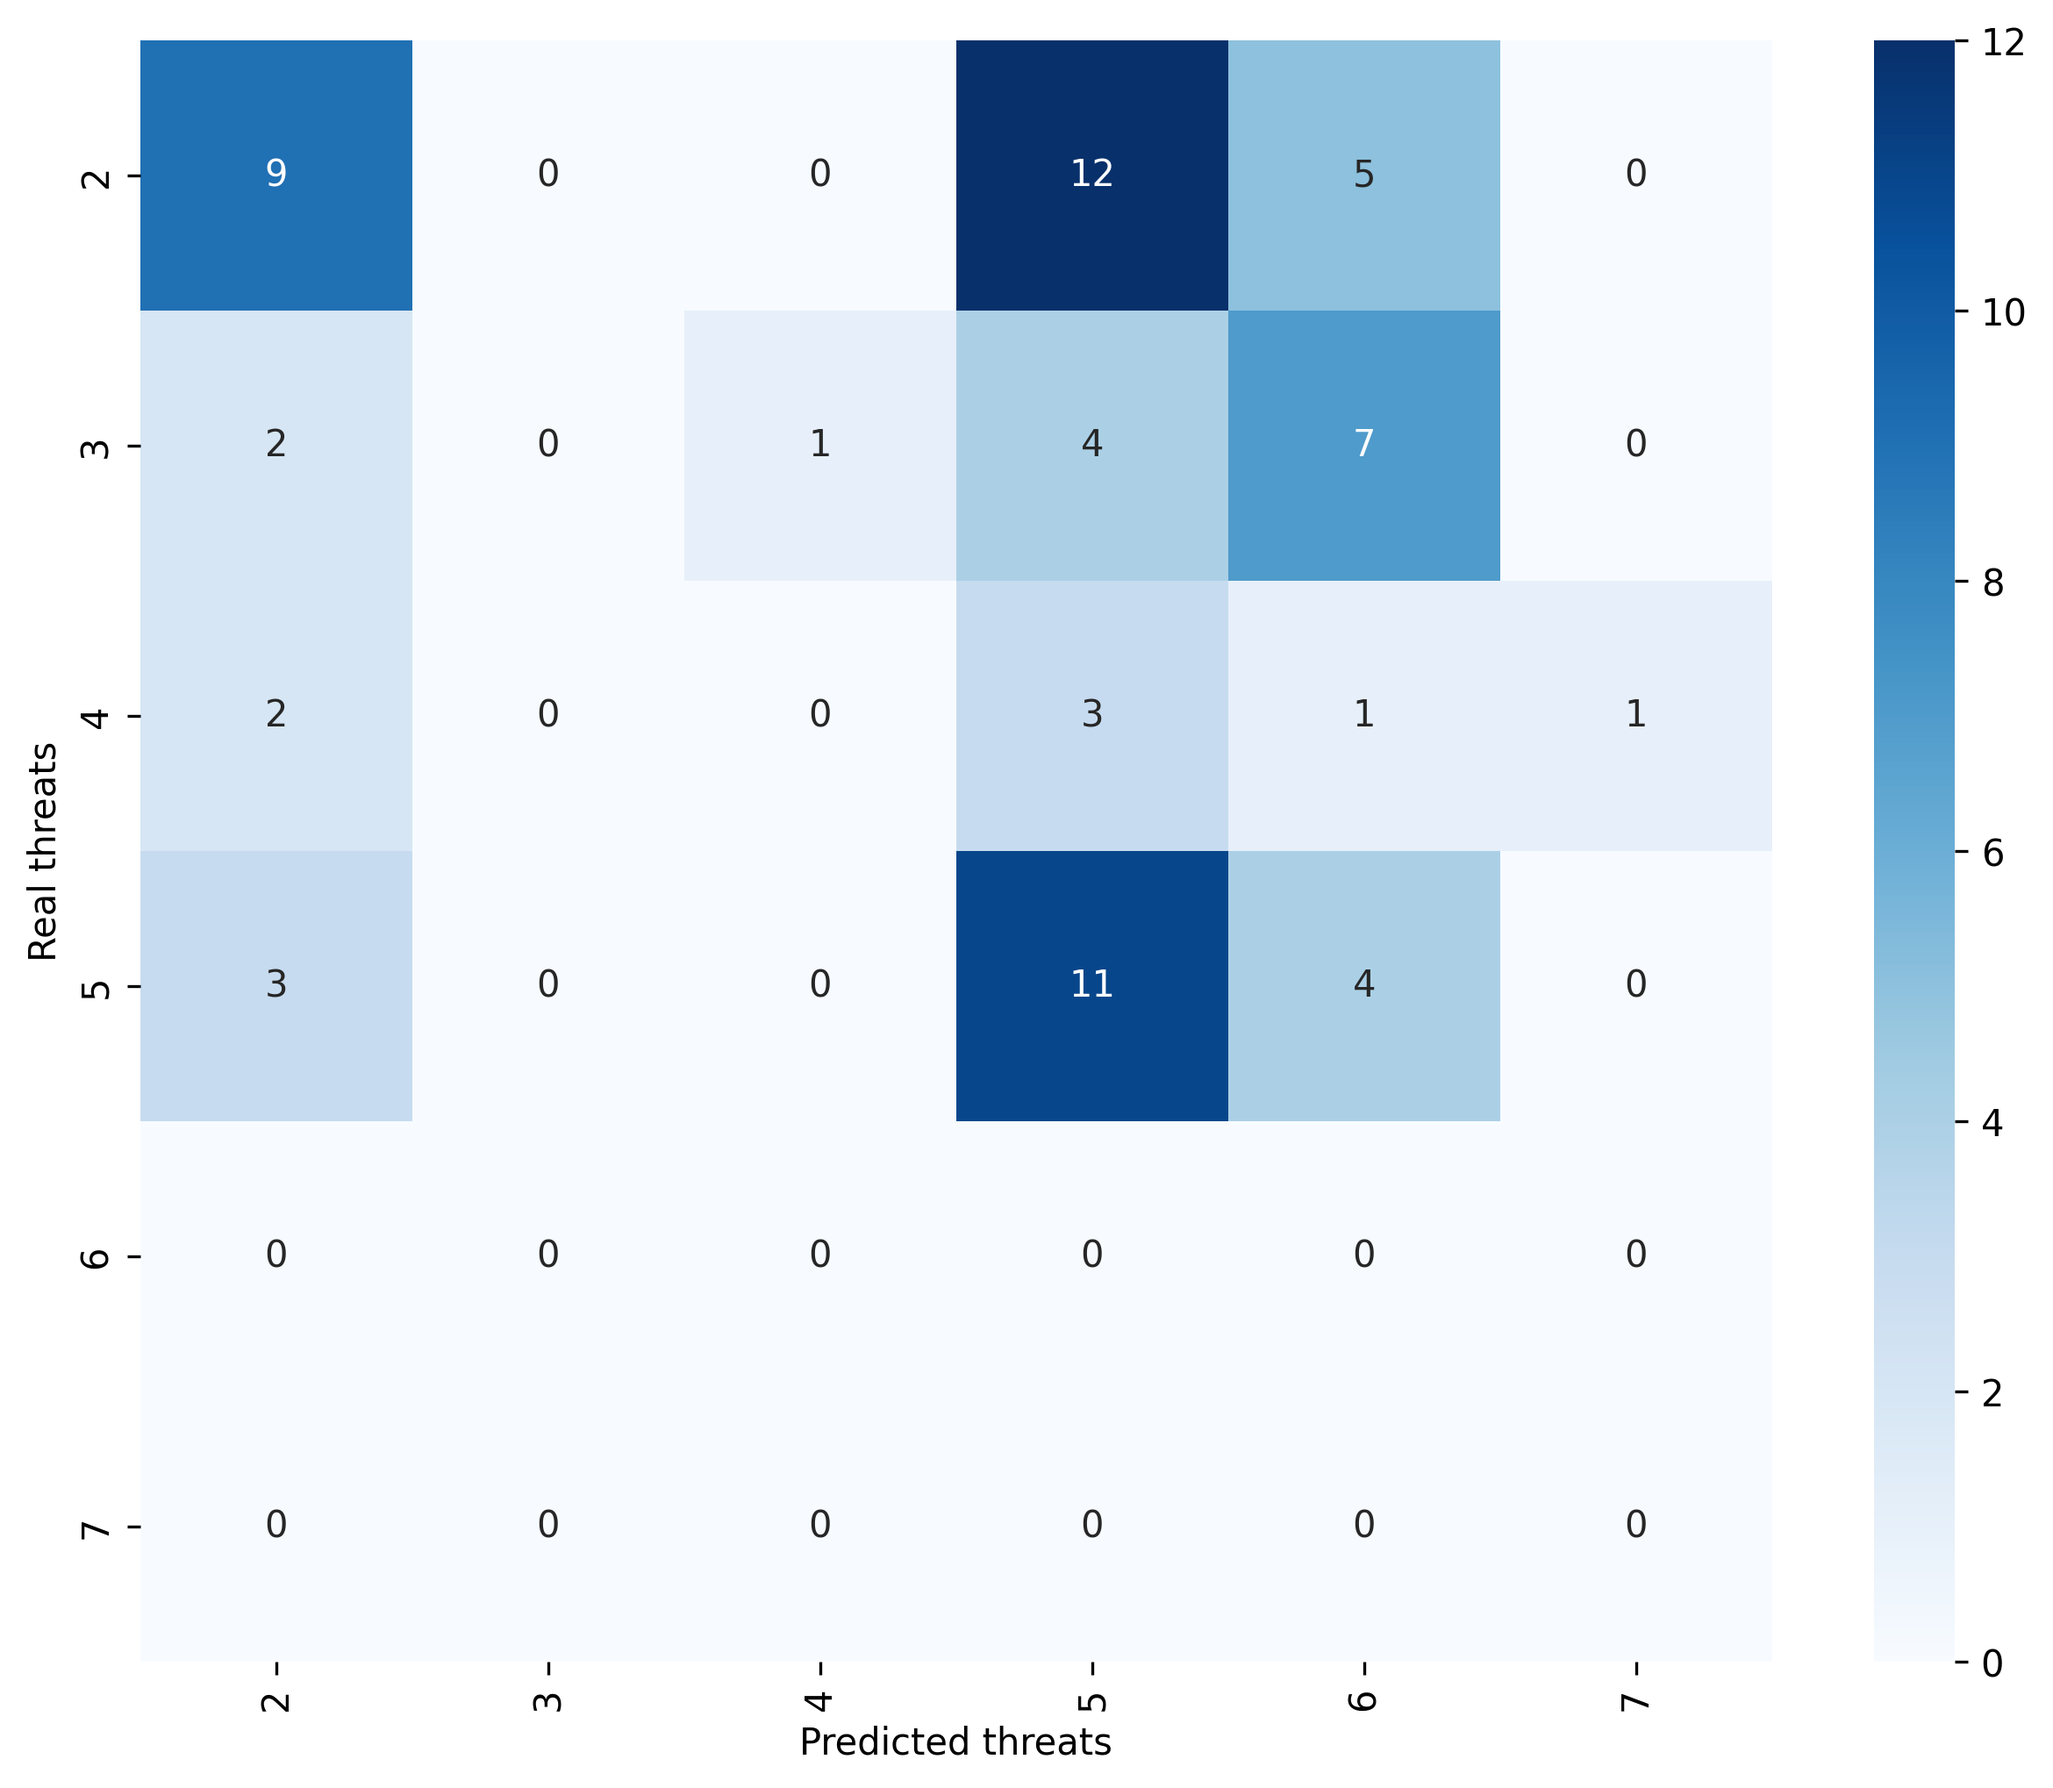
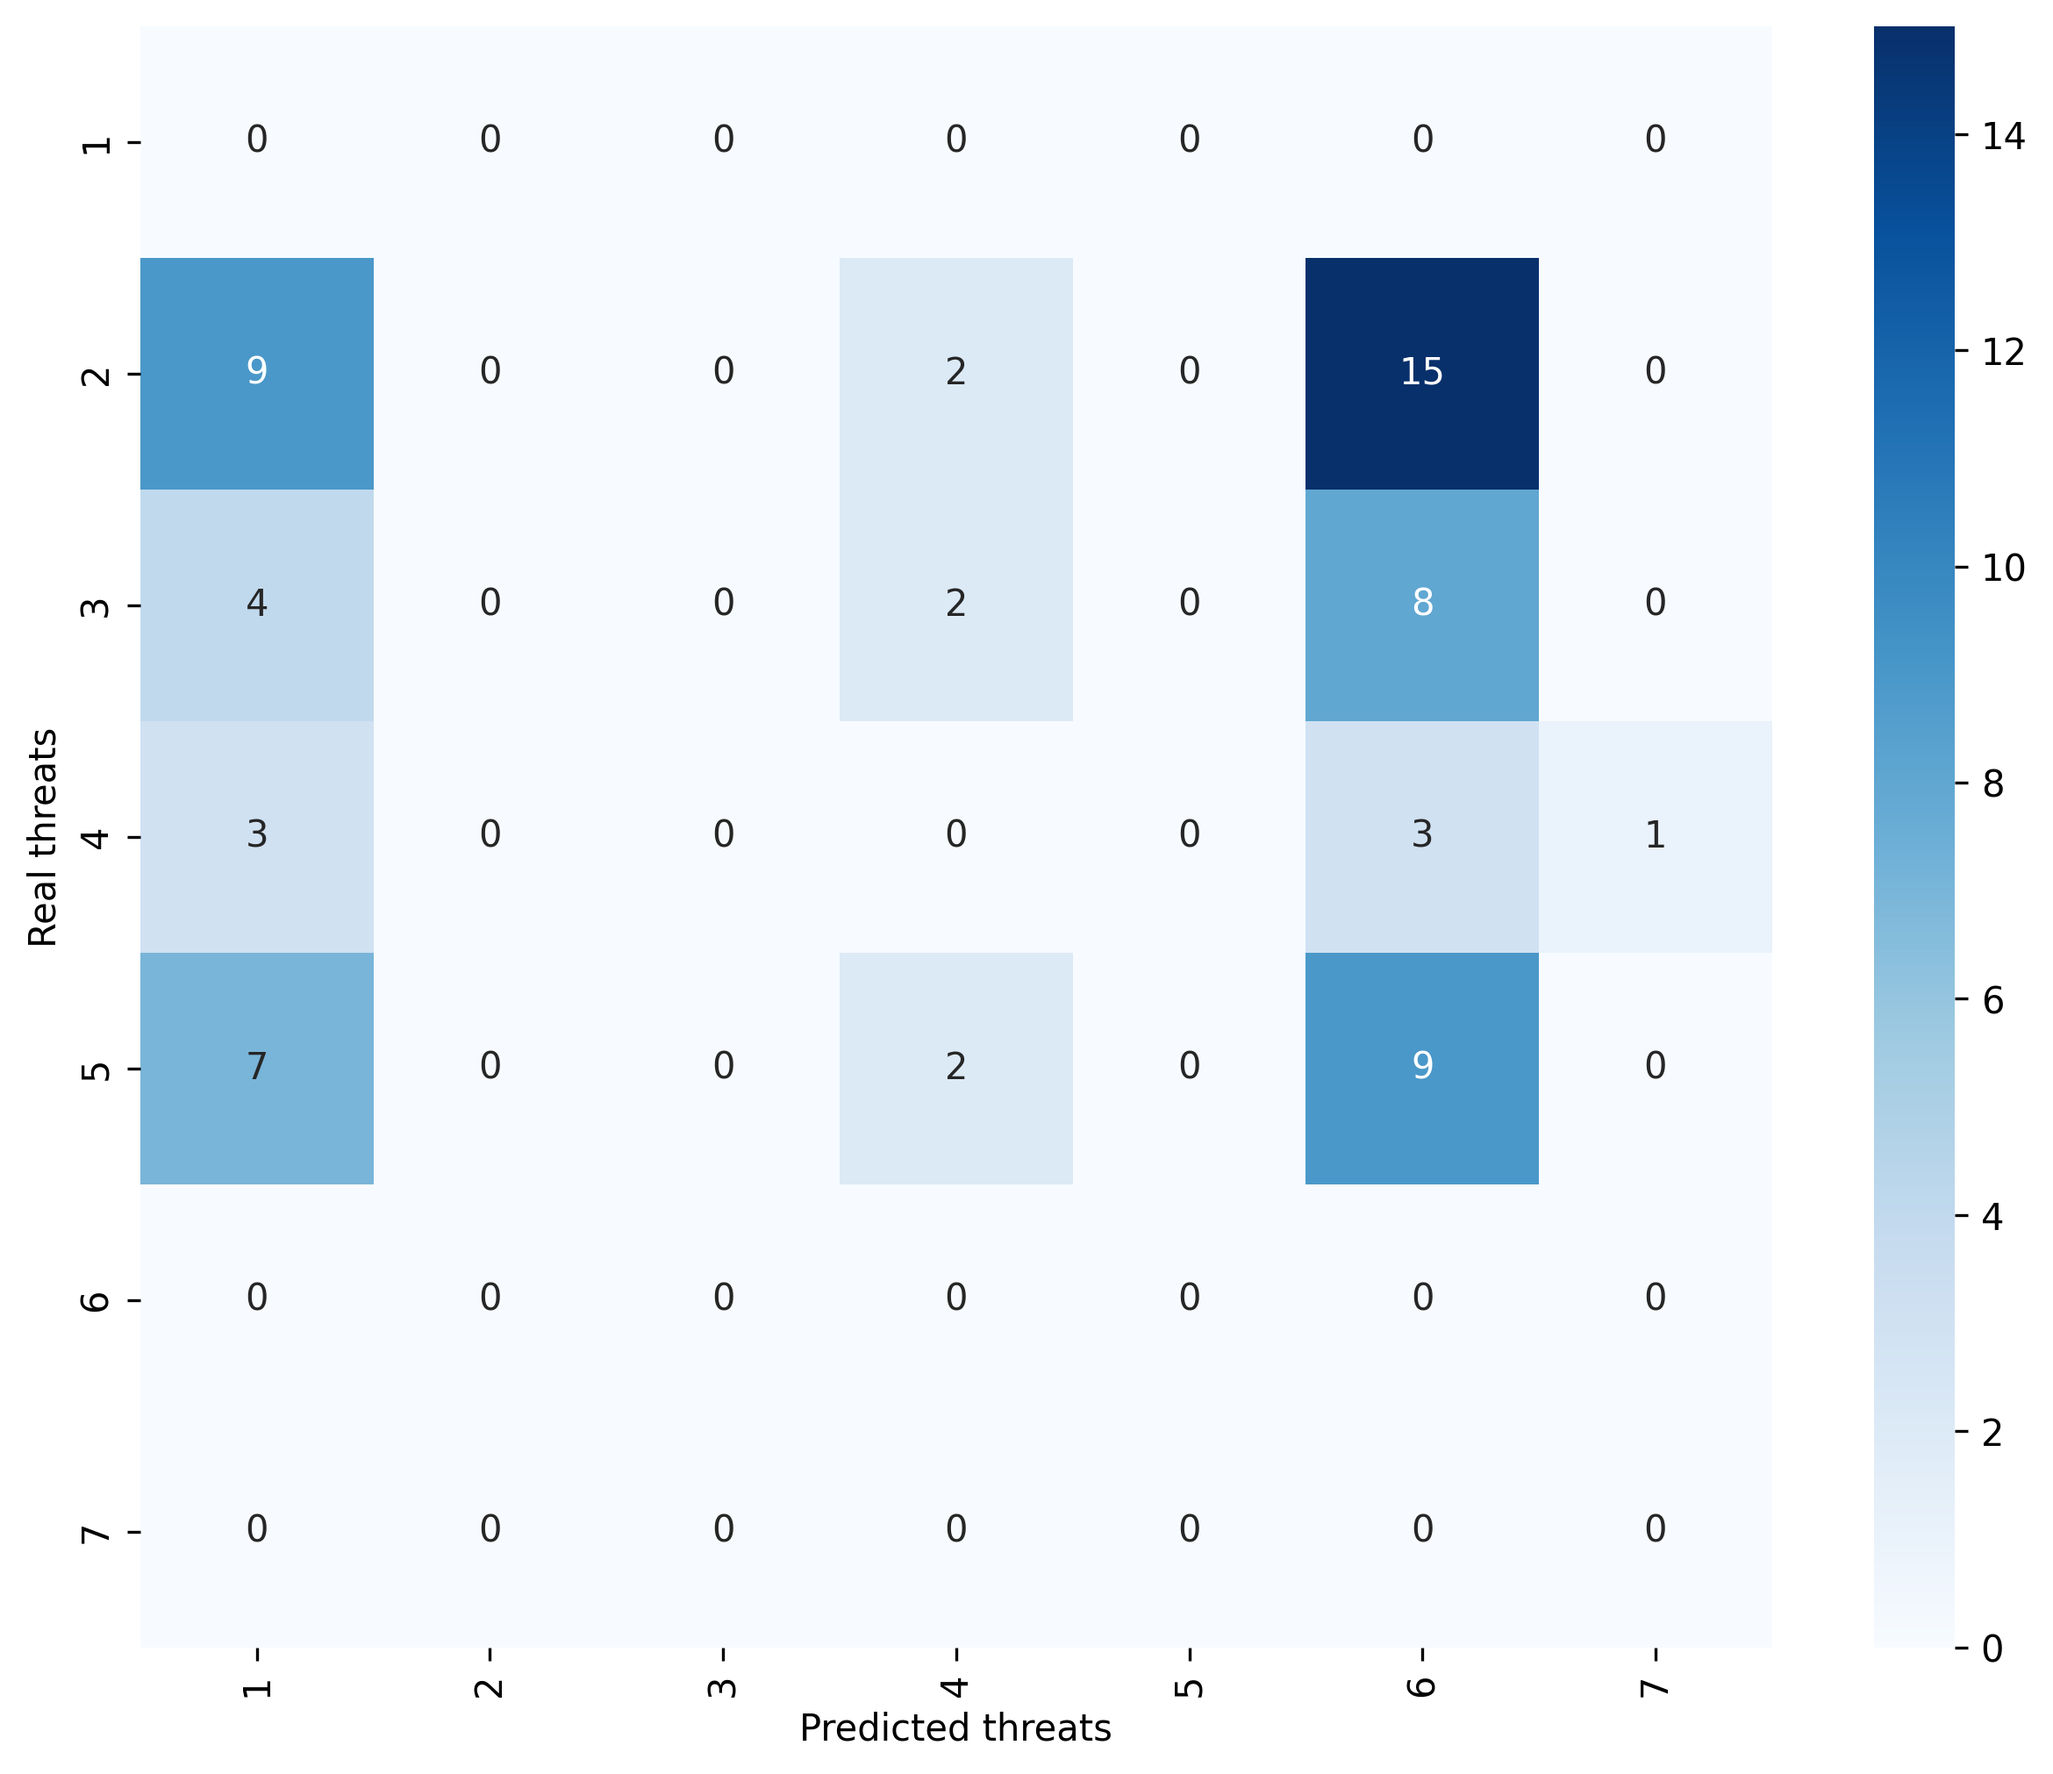
determined reason for slow server forward message
clients load full dataset every time

diff --git a/dnn/evfl/server_app.py b/dnn/evfl/server_app.py
@@ -16,6 +16,7 @@ import matplotlib.pyplot as plt
 import matplotlib.cm as cm
 import seaborn as sns
 import os
+import gc
 from sklearn.metrics import (
     confusion_matrix,
     classification_report,
@@ -183,6 +184,7 @@ def train(grid, context, num_rounds, lr, embedding_dim, num_clients,
 
             log(INFO, "Requesting embeddings from %s clients", len(messages))
             replies = grid.send_and_receive(messages)
+            log(INFO, "Received embeddings from %s clients", len(messages))
 
             # 2 Assemble embedding matrix H
             embedding_dim = NEURONS_PER_LAYER
@@ -241,6 +243,10 @@ def train(grid, context, num_rounds, lr, embedding_dim, num_clients,
 
             log(INFO, "Sending gradients to %s clients", len(grad_messages))
             grid.push_messages(grad_messages)
+
+            del grad_H
+            del H
+            gc.collect()  # force Python garbage collection
 
         log(INFO, "Round %s complete", rnd)
     return server

diff --git a/dnn/evfl/client_app.py b/dnn/evfl/client_app.py
@@ -4,6 +4,8 @@ import torch
 from flwr.app import ArrayRecord, Context, Message, MetricRecord, RecordDict, ConfigRecord, Array
 from flwr.clientapp import ClientApp
 import numpy as np
+from logging import INFO
+from flwr.common import log
 
 from evfl.dnn import (
     DNN,
@@ -30,8 +32,6 @@ app = ClientApp()
 
 # ---- Globals ----
 
-
-
 def _init_model(context: Context):
     """Initialize model and dataloader deterministically."""
     partition_id = context.node_config["partition-id"]
@@ -53,12 +53,14 @@ def load_data(context: Context, model):
     global_batch_size = context.run_config["batch-size"]
     subset_size = context.run_config["subset"]
 
+    log(INFO, f"Loading data for p{partition_id}...")
     X_train, _ = model.load_data(
         partition_id,
         num_partitions,
         global_batch_size,
         subset_size
     )
+    log(INFO, f"Loaded data for p{partition_id}")
 
     return X_train  # materialize for deterministic indexing
 
